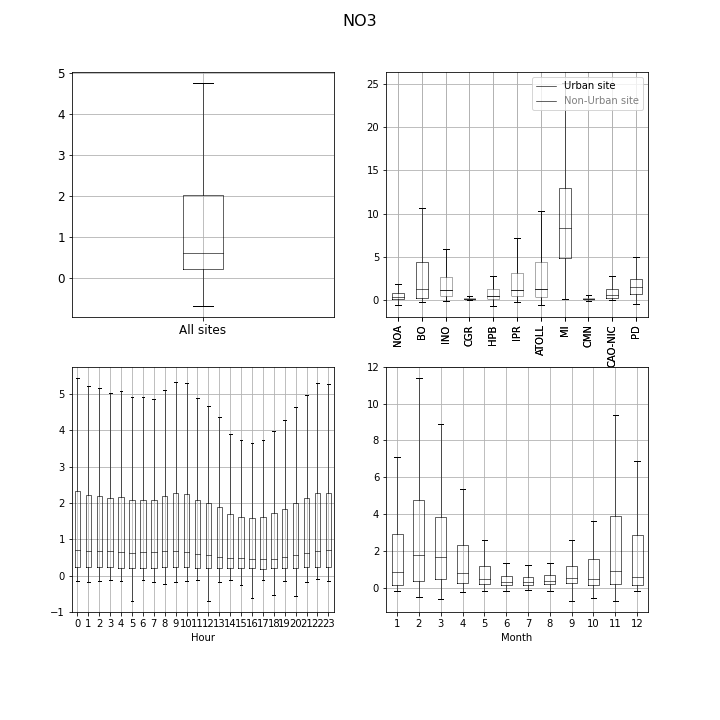
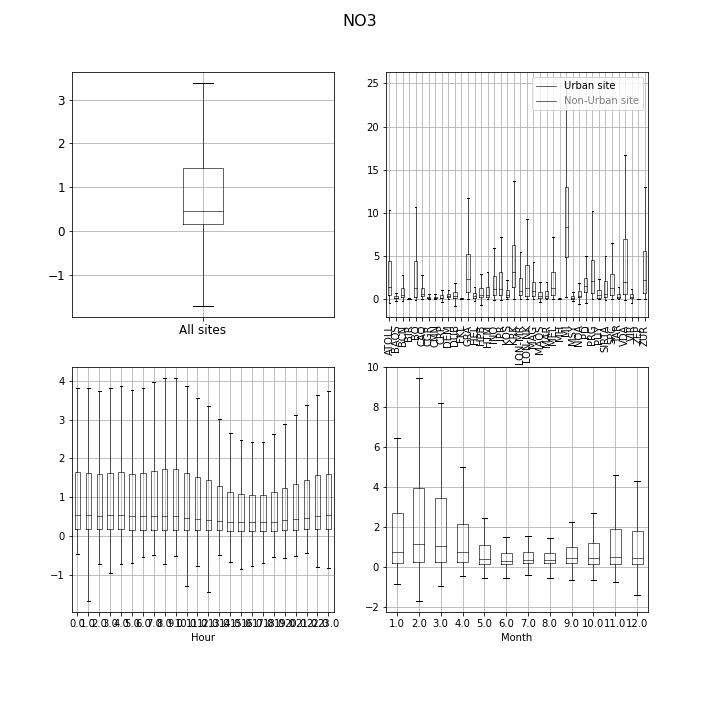
Progress 03/01/2023
Some data cleaning and making all code work!

diff --git a/Data_compilation.py b/Data_compilation.py
@@ -19,10 +19,11 @@ path_py_mac="/Users/martaviagonzalez/Documents/Documents - MacBook Pro de MVIA/G
 path_py_wdws ="C:/Users/maria/Documents/Marta Via/1. PhD/F. Scripts/Python Scripts"
 path_data_mac="/Users/martaviagonzalez/Documents/Documents - MacBook Pro de MVIA/IDAEA-CSIC/Overview/All/"
 path_data_wdws="C:/Users/maria/Documents/Marta Via/1. PhD/A. Data/Overview/All/"
+path_individual_wdws="C:/Users/maria/Documents/Marta Via/1. PhD/A. Data/Overview/Individual_plots/"
 path_folder_mac="/Users/martaviagonzalez/Documents/GitHub/EU_Overview/Data/"
 path_folder_wdws = "C:/Users/maria/Documents/GitHub/EU_Overview/Data/"
 #
-mac_or_wdws = 'mac' #Introduce OS here
+mac_or_wdws = 'wdws' #Introduce OS here
 #
 if mac_or_wdws=='mac':
     path_py = path_py_mac
@@ -47,22 +48,42 @@ print(trt.x)
 #%% Import Composition files
 os.chdir(path_data)
 all_files=glob.glob(path_data+'*Composition.txt')
+li_site_names = [j[-29:-25] for j in all_files]
 chem_comp=pd.DataFrame()
 chem_comp['Chemical_composition']=[pd.read_csv(i, sep='\t', na_values='null', keep_default_na=True) for i in all_files]
-li_site_names = [j[-29:-25] for j in all_files]
-chem_comp.index = li_site_names
+li_sites_names = ['ATOLL', 'BAQS', 'BCN', 'BIR', 'BO', 'CAO', 'CGR', 'CMN', 'CRP', 'DEM', 'DUB', 'FKL','GRA', 'HEL','HPB', 'HTM', 'INO', 'IPR',  'KOS', 'KRK', 'LON-MR', 'LON-NK', 'MAG','MAQS', 'MAR', 'MEL', 'MH', 'MI', 'MSY', 'NOA', 'PD', 'PRG','PUY', 'SIRTA',  'SPC', 'TAR', 'VDA', 'VIR', 'ZEP', 'ZUR'] 
+chem_comp.index = li_sites_names
 #%% We import metadatafiles
 os.chdir(path_folder)
 metadata = pd.read_csv("Sites_metadata.txt", sep='\t')
 metadata=metadata.sort_values('Acronym')
 li_sites_names = metadata['Acronym']
 #chem_comp.index = metadata['Acronym']
-#%%
-df1 = pd.DataFrame(chem_comp.iloc[1][0])
-
+#%% Colors
+cl_nrpm1=['forestgreen', 'red', 'blue', 'gold', 'fuchsia']
 #%%
 """ NR-PM1 COMPOUNDS! """
-#%% Average plots compound - Boxplots
+
+#%% INDIVIDUAL PLOTS
+nr_dfs=[]
+chem_comp['Chemical_composition']=[pd.read_csv(i, sep='\t', na_values='np.nan', keep_default_na=True) for i in all_files]
+os.chdir(path_individual_wdws)
+for i in range(0,len(chem_comp)):
+    print(i,li_sites_names[i])
+    dfi=chem_comp.iloc[i][0]
+    dfi=dfi.replace('', np.nan)
+    dfi['datetime']=pd.to_datetime(dfi['Time (UTC)'], dayfirst=True)
+    del dfi['Time (UTC)']
+    del dfi['Time (Local)']
+    dfi.index = dfi['datetime']
+    del dfi['datetime']
+    dfi=dfi[['Org', 'SO4', 'NO3', 'NH4', 'Chl']]
+    dfi.columns=['OA', 'Sulphate', 'Nitrate', 'Ammonium', 'Chloride']
+    fig, axs=plt.subplots(figsize=(10,10))
+    dfi.plot(subplots=True, color=cl_nrpm1, ax=axs, title =li_sites_names[i])
+    nr_dfs.append(dfi)
+    plt.savefig(li_sites_names[i]+'_NRPM1.png')
+#%% Average plots compound - Boxplot
 os.chdir(path_folder + "Preliminar Plots/Chemical Composition/")
 comp='Org'
 li_dfs=[]
@@ -80,15 +101,16 @@ for i in range(0,len(chem_comp)):
 chem_compound.columns=chem_comp.index
 chem_compound_t.columns=['All sites']#metadata['Acronym']
 chem_dt.columns=['All times']
-1#%%
+#%%
 chem_dt['All_times'] = pd.to_datetime(chem_dt['All times'], dayfirst=True, utc=True)
 chem_compound_t['Hour'] = chem_dt['All_times'].dt.hour
 chem_compound_t['Month'] = chem_dt['All_times'].dt.month
 chem_compound_2=chem_compound.copy(deep = True)
-mask_urban=(metadata['Type']!='UB')
-non_urban=metadata['Acronym'].loc[mask_urban].to_list()
+mask_nonurban=(metadata['Type']!='UB')
+non_urban=metadata['Acronym'].loc[mask_nonurban].to_list()
 chem_compound_2[non_urban]=np.nan
 #%%Plotting boxplots
+os.chdir(path_folder + "Preliminar Plots/Chemical Composition/")
 fig, axs=plt.subplots(figsize=(10,10),nrows=2, ncols=2)
 chem_compound_t.boxplot(column = 'All sites', ax=axs[0,0], fontsize=12,boxprops=bp, medianprops=mdp,meanprops=mp, whiskerprops=wp, showfliers=False)
 chem_compound.boxplot(ax=axs[0,1], boxprops=bp, fontsize=10, medianprops=mdp,meanprops=mp, whiskerprops=wp, showfliers=False, rot=90)
@@ -100,47 +122,35 @@ axs[1,1].set_title('')
 fig.suptitle(comp, fontsize=16)
 axs[0,1].legend(['Urban site', 'Non-Urban site'], loc='upper right', labelcolor=['k', 'grey'])
 plt.savefig('Boxplots_'+comp+'.png')
-li_dfs=[j.drop('datetime', inplace=True, axis=1) for j in li_dfs]
-#%%
-a=pd.DataFrame()
-a['All']=chem_compound_t['All sites'].astype(float)
-a.boxplot(column='All',  fontsize=12,boxprops=bp, medianprops=mdp,meanprops=mp, whiskerprops=wp, showfliers=False)
+# li_dfs=[j.drop('datetime', inplace=True, axis=1) for j in li_dfs]
 
-#%% Filtering process
-nr_comp=['Org', 'SO4', 'NO3', 'NH4', 'Chl']
-DL=pd.Series([0.148,0.024,0.012,0.284,0.011], index=nr_comp)
-max_conc=pd.Series([30,20,20,10,5], index=nr_comp)
 
-for j in range(0, len(li_dfs)):
-    df=li_dfs[i]
-    df=df.reindex(nr_comp, axis=1) 
-    DL_mask = (df['Org']<=-DL['Org']) & (df['SO4']<=-DL['SO4']) & (df['NO3']<=-DL['NO3']) & (df['NH4']<=-DL['NH4'])& (df['Chl']<=-DL['Chl'])
-    M_mask = (df['Org']<=-max_conc['Org']) & (df['SO4']<=-max_conc['SO4']) & (df['NO3']<=-max_conc['NO3']) & (df['NH4']<=-max_conc['NH4'])& (df['Chl']<=-max_conc['Chl'])
-    df_f = df.loc[DL_mask]
-    df_f = df_f.loc[M_mask]
-    df_f.plot(subplots=True) 
 #%% Maybe now I should put them in teh daily pattern
 min_date = pd.date_range(start='01/01/2010', end = '31/12/2023', freq='D').strftime('%d/%m/%Y') #The complete time series
 li_days=[]
 for i in range(0,len(chem_comp)):
+    print(i, li_sites_names[i])
     df1=pd.DataFrame(chem_comp.iloc[i][0])
     df1.reset_index(inplace=True, drop=True)
     df1['datetime']=pd.to_datetime(df1['Time (UTC)'], dayfirst=True) 
     df1['date']=df1['datetime'].dt.date
     df1d=df1.groupby(df1['date']).mean()
+    df1d=df1d.drop(columns=['Time (Local)', 'MSA', 'Seasalt'], axis=1, errors='ignore')
     df1d['datetime']=pd.to_datetime(df1d.index, dayfirst=True)
-    df1d.columns=['Chl_'+li_site_names[i],'NH4_'+li_site_names[i], 'NO3_'+li_site_names[i],'Org_'+li_site_names[i], 'SO4_'+li_site_names[i], 'datetime_'+li_site_names[i] ]
+    df1d.columns=['Chl_'+li_sites_names[i],'NH4_'+li_sites_names[i], 'NO3_'+li_sites_names[i],'Org_'+li_sites_names[i], 'SO4_'+li_sites_names[i], 'datetime_'+li_sites_names[i] ]
     li_days.append(df1d) #List of the datetimes
     
-
 #%% Merging DFS
 df=pd.DataFrame(pd.to_datetime(min_date, dayfirst=True), columns=['date'])
-dates = pd.merge(df,li_days[0], how='outer',left_on='date', right_index=True, sort=True)
+li_days[0]['datet'] = pd.to_datetime(li_days[0]['date'])
+dates = pd.merge(df,li_days[0], how='outer',left_on='date', right_on='datet', sort=True)
 for i in range (1,len(li_days)):
-    dates = pd.merge(dates,li_days[i], how='outer',left_on='date', right_index=True, sort=True)
+    li_days[i]['datet']= pd.to_datetime(li_days[i].index)
+    dates = pd.merge(dates,li_days[i], how='outer',left_on='date_x', right_on='datet', sort=True)
 dates=dates.drop(dates.index[-1])
-dates.index=dates['date']
+dates.index=dates['date_x']
 dates.plot(legend=False)
+
 #%% PLot
 dates_plot=dates.loc[:, dates.columns.str.startswith('datetime')]
 colors=['grey', ]
@@ -148,15 +158,16 @@ dates_plot=dates_plot.notnull().astype('int')
 dates_plot=dates_plot.replace(0, np.nan)
 for i in range(0,len(dates_plot.columns)):
     dates_plot[dates_plot.columns[i]]=dates_plot[dates_plot.columns[i]]*(i+1)
-fig, axs = plt.subplots(figsize=(9,6))
+fig, axs = plt.subplots(figsize=(9,8))
 for m, col, c in zip(li_marker, dates_plot.columns, li_color):
     dates_plot[col].plot(marker=m, lw=0,legend=False, ax=axs, color=c, grid=True)
 axs.set_yticks(range(0,len(dates_plot.columns)+1))
-axs.set_yticklabels(['']+li_site_names[:-1])
+axs.set_yticklabels(['']+li_sites_names)
 axs.set_xlabel('Time (years)', fontsize=14)
 axs.set_ylabel('Sites', fontsize=14)
 from matplotlib.lines import Line2D
 from matplotlib.patches import Patch
+
 legend_elements = [Line2D([0], [0], color='royalblue', label='Urban background', ),
                    Line2D([0], [0], color='green', label='Regional background'), 
                    Line2D([0], [0], color='darkorange', label='Suburban'), 
@@ -171,6 +182,9 @@ axs.legend(handles=legend_elements, loc = (1.02,0.5))#'upper right')
 fig.savefig('Site_availability.png')
 
 #%%
+
+
+
 for m, col in zip('xosd', df):
     df[col].plot(marker=m)
 plt.legend()
@@ -195,6 +209,4 @@ for i in range(0,len(metadata[:-1])):
         li_color.append('darkorange')
     if metadata['Type'].iloc[i]=='M':
         li_color.append('sienna')
-
-
 
